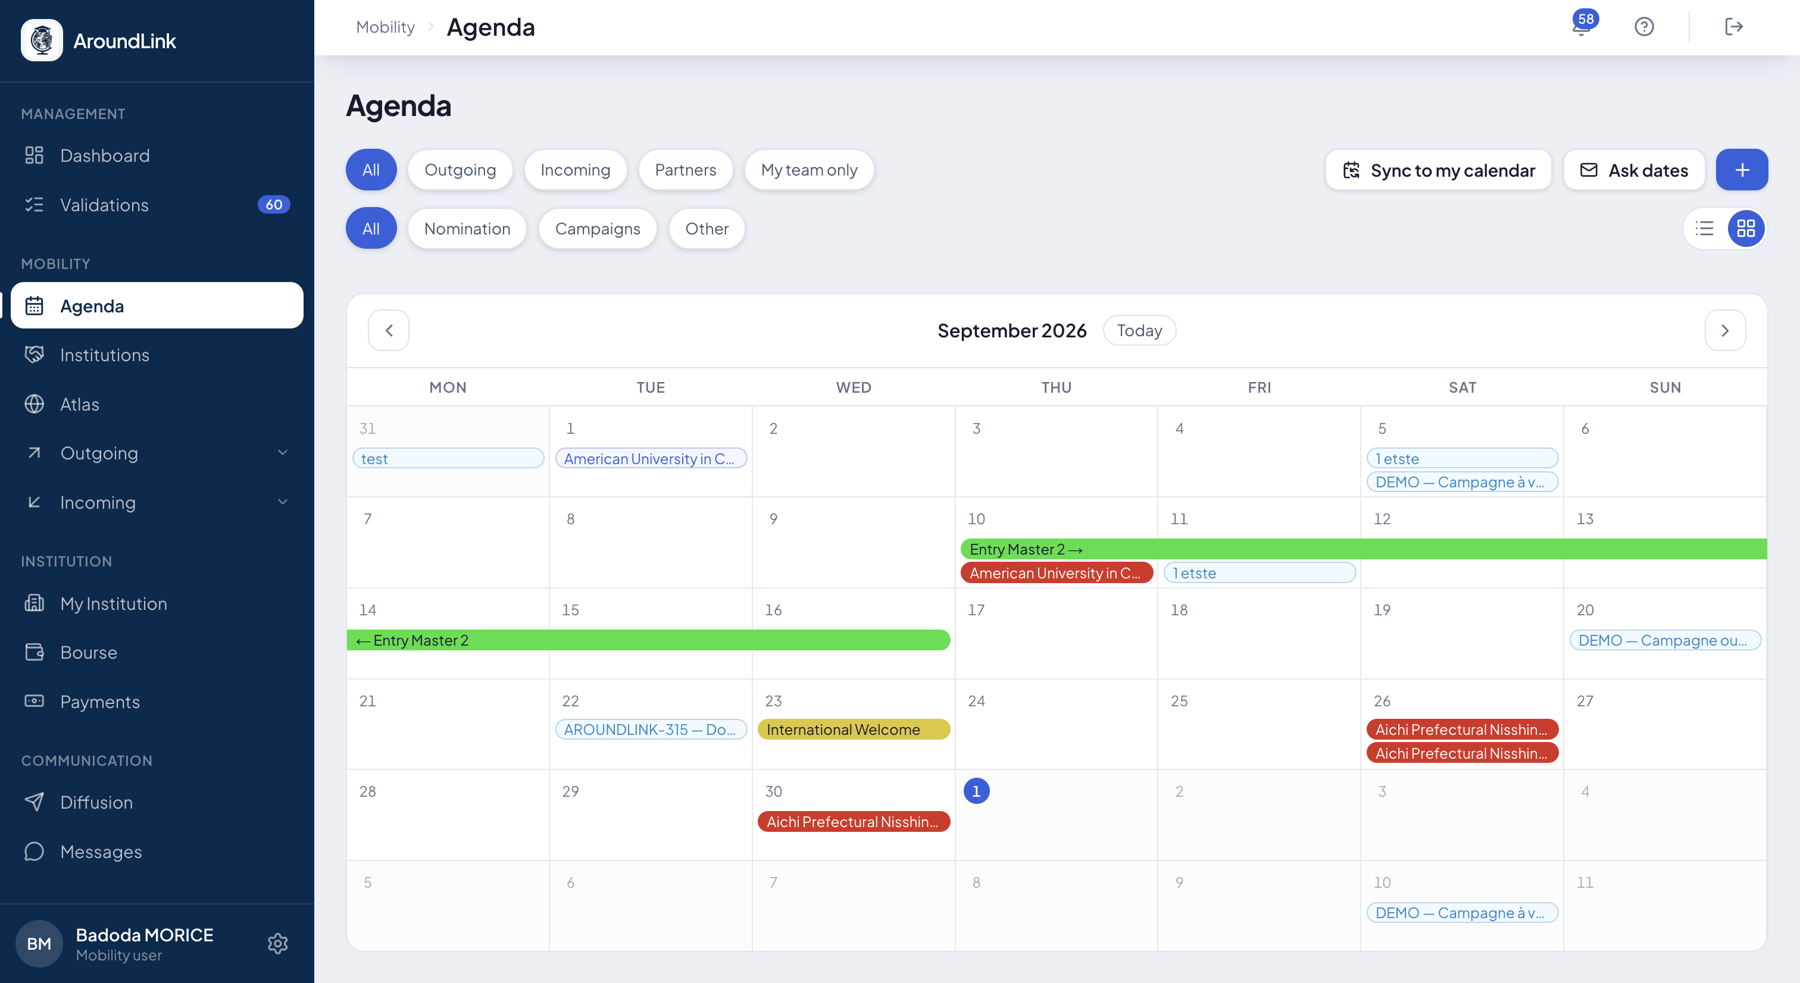
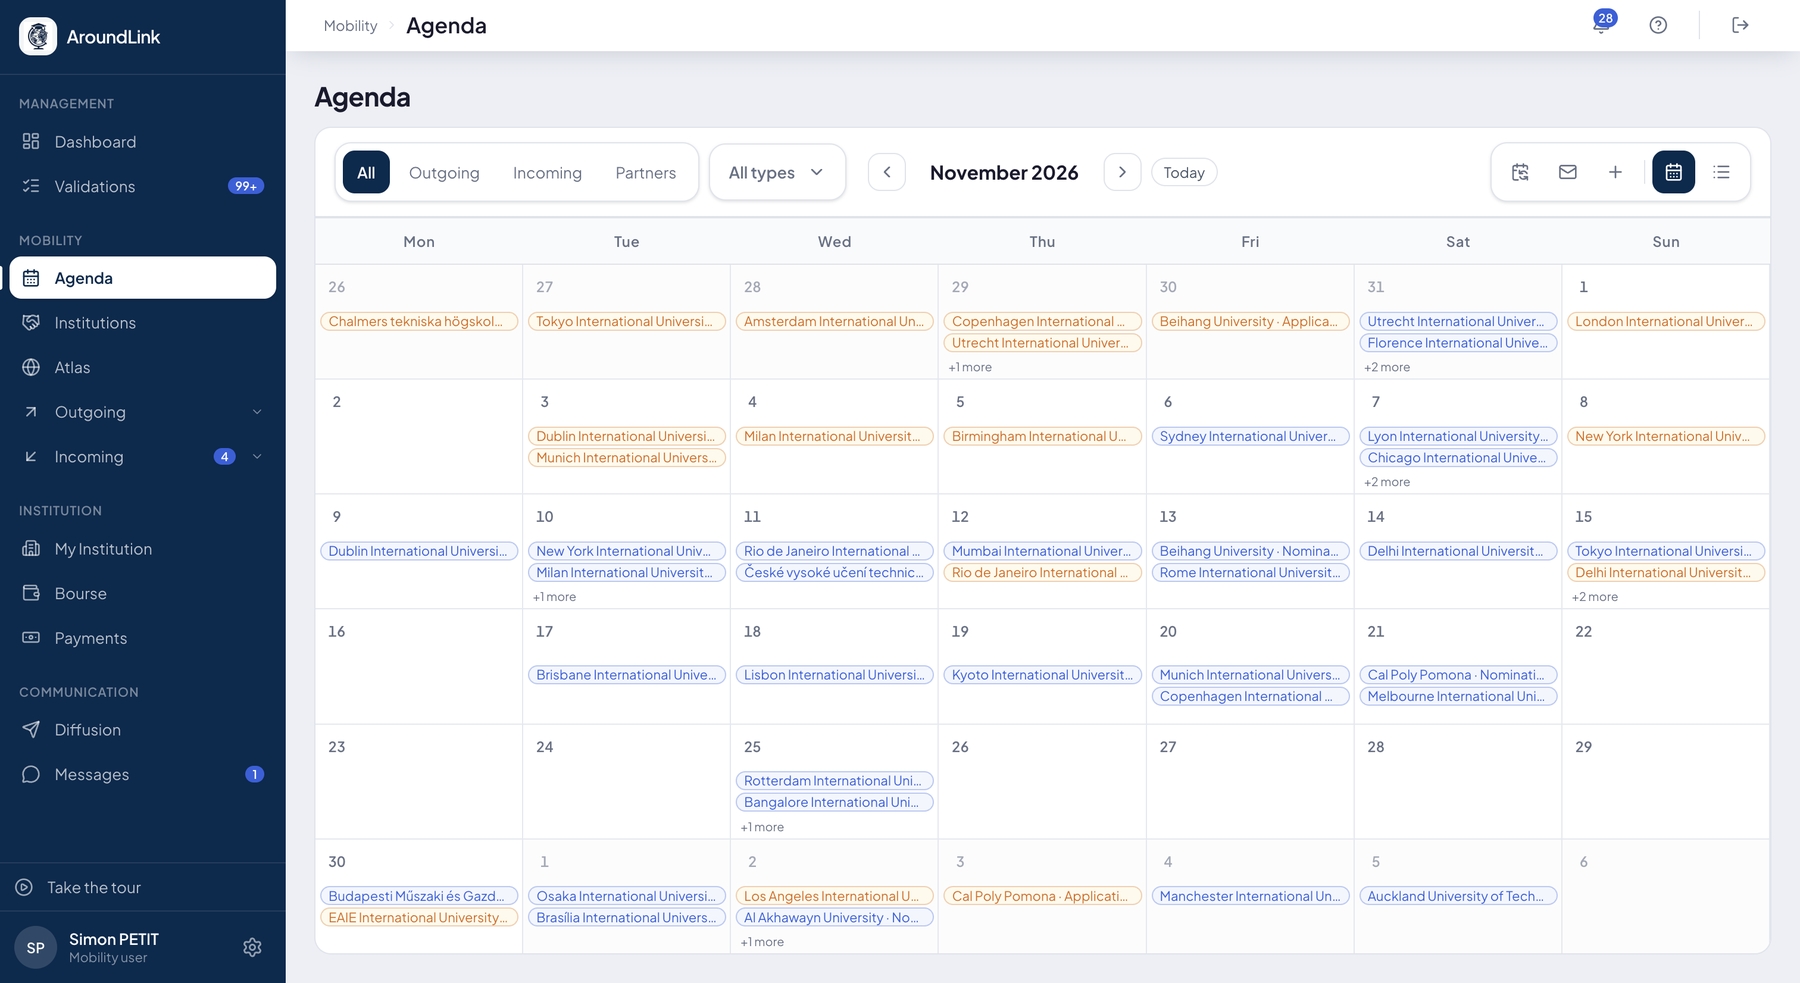
docs: sept captures de plus — et le vocabulaire des exigences, que l'écran a démenti
CE QUE LES CAPTURES ONT CORRIGÉ. J'avais décrit les exigences de langue avec
le vocabulaire du MODÈLE — « ET entre les blocs, OU dedans ». L'écran ne dit
pas ça : il empile des exigences numérotées et pose entre elles un mot
CLIQUABLE, « and » ou « or ». Vérifié dans InstitutionInformation.tsx, où le
séparateur rend « and » quand le bloc change et « or » sinon. Le texte dit
maintenant ce qui se voit, avec les deux en-têtes réels — « any one of these
is enough » et « this proof is required » — et la mention « Not a language »
de la moyenne générale.

CAPTURES POSÉES
- fiche-publique-composition + fiche-publique-publiee : la page neuve avait
  zéro image, elle en a deux — l'atelier et le résultat public.
- mon-etablissement-exigences-langue : le « or » cliquable, en situation.
- mon-etablissement-annonce-langues : l'aperçu avant envoi, et surtout les
  huit établissements NOMMÉS qui seront écartés faute de contact principal.
- agenda-demande-dates : « Dates filled » et le même avertissement. Posée
  dans les CINQ langues.
- recherche-globale : les familles, leurs compteurs, les sous-titres.
- agenda-mois : remplacée, l'écran du 01/10 n'existe plus.

MÉNAGE. Les quatre captures d'onboarding traînaient sans être affichées
depuis la revue du 14/10 : supprimées du dépôt et du registre. Une capture
qu'aucune page ne montre est une capture qu'on finira par ressortir à tort.

diff --git a/docs/etablissement/partenaires.fr.md b/docs/etablissement/partenaires.fr.md
@@ -140,20 +140,25 @@ niveau CECRL optionnel. Le référentiel des tests dit désormais **quelle langu
 chaque test mesure**, ce qui permet de rapprocher une exigence et un certificat
 sans interprétation.
 
-**Exiger deux langues : ET entre les blocs, OU dedans.** Une exigence n'est plus
-une liste plate d'alternatives. Chaque attente appartient à un **bloc**, et un bloc
-est **une preuve à apporter** :
+**Exiger deux langues.** Une exigence n'est plus une liste plate d'alternatives.
+L'écran empile des **exigences numérotées**, chacune portant sa langue, et **vous
+reliez deux exigences d'un clic** sur le mot qui les sépare :
 
-- à l'intérieur d'un bloc, les attentes sont des **alternatives** — « IELTS 6.5 **ou**
-  TOEFL 84 » ;
-- entre deux blocs, elles **s'additionnent** — « anglais **et** portugais ».
+| Le séparateur dit | Ce que l'étudiant doit faire |
+|---|---|
+| **and** | satisfaire les deux — « anglais **et** allemand » |
+| **or** | satisfaire l'une des deux |
 
-Un seul bloc en échec suffit à refuser le vœu. C'est ce qui permet enfin d'exprimer
-ce qu'une université demande vraiment quand elle exige une LV2 en plus de l'anglais :
-avant, l'étudiant restait considéré comme éligible dès qu'il satisfaisait l'anglais.
+À l'intérieur d'une exigence, les tests listés sont toujours des **alternatives** :
+l'en-tête l'annonce — *any one of these is enough* quand il y en a plusieurs, *this
+proof is required* quand il n'y en a qu'un.
 
-La **moyenne générale** tient son exigence à part : elle n'entre dans aucun bloc de
-langue.
+C'est ce qui permet enfin d'exprimer ce qu'une université demande vraiment lorsqu'elle
+exige une LV2 en plus de l'anglais : avant, l'étudiant restait considéré comme éligible
+dès qu'il satisfaisait l'anglais.
+
+La **moyenne générale** tient son exigence à part — l'écran la marque *Not a language* :
+c'est un prérequis, pas une langue.
 
 **D'où vient une exigence.** Une même fiche peut porter deux origines, et la
 différence compte — l'une s'applique à tout le monde, l'autre à vous seul. Une

diff --git a/docs/etablissement/partenaires.en.md b/docs/etablissement/partenaires.en.md
@@ -132,19 +132,25 @@ score, the four sub-scores and an optional CEFR level. The test reference now
 states **which language each test measures**, so a requirement and a certificate
 can be matched without interpretation.
 
-**Requiring two languages: AND between blocks, OR inside.** A requirement is no
-longer a flat list of alternatives. Each expectation belongs to a **block**, and a
-block is **one proof to provide**:
+**Requiring two languages.** A requirement is no longer a flat list of alternatives.
+The screen stacks **numbered requirements**, each carrying its language, and **you join
+two of them with one click** on the word that separates them:
 
-- inside a block, expectations are **alternatives** — "IELTS 6.5 **or** TOEFL 84";
-- between two blocks, they **add up** — "English **and** Portuguese".
+| The separator says | What the student must do |
+|---|---|
+| **and** | satisfy both — "English **and** German" |
+| **or** | satisfy either one |
 
-A single failed block is enough to refuse the wish. This is what finally expresses what
-a university really asks when it requires a second language on top of English: before,
-the student stayed eligible as soon as English was satisfied.
+Inside a requirement, the tests listed are always **alternatives**: the header says so —
+*any one of these is enough* when there are several, *this proof is required* when there
+is only one.
 
-The **grade point average** holds its own requirement apart: it belongs to no language
-block.
+This is what finally expresses what a university really asks when it requires a second
+language on top of English: before, the student stayed eligible as soon as English was
+satisfied.
+
+The **grade point average** holds its own requirement apart — the screen marks it *Not a
+language*: it is a prerequisite, not a language.
 
 **Where a requirement comes from.** The same fiche can carry two origins, and the
 difference matters — one applies to everyone, the other to you alone. A note at the

diff --git a/docs/etablissement/mon-etablissement.fr.md b/docs/etablissement/mon-etablissement.fr.md
@@ -76,6 +76,10 @@ d'attendre que chaque partenaire vous les demande, vous les annoncez d'un geste.
 
 **Pour qui.** <span class="al-audience">gestionnaire RI / coordinateur</span>
 
+![Vos exigences de langue, reliées par « and » ou « or »](../assets/screenshots/mon-etablissement-exigences-langue.png)
+
+*Deux exigences numérotées, chacune avec sa langue. Le mot qui les sépare se clique pour passer de « and » à « or ». Sous chacune, les tests acceptés — « any one of these is enough ».*
+
 **Comment ça marche.** L'envoi se fait **en deux temps**, comme la publication de vos
 dates : vous **regardez d'abord** ce qui partirait et à combien de partenaires, puis vous
 **envoyez**. Un message vers cinquante universités ne se rattrape pas ; le nombre de
@@ -88,6 +92,10 @@ L'écran rappelle aussi **quand vous avez annoncé pour la dernière fois**.
     par un lien qui ne réclame **aucun compte**. Il saisit ses prérequis, langue par
     langue, et ils remontent sur sa fiche. Le formulaire porte **votre logo**, pour qu'il
     sache qui demande.
+
+![L'aperçu avant d'annoncer ses exigences](../assets/screenshots/mon-etablissement-annonce-langues.png)
+
+*Avant d'envoyer : ce que vos partenaires liront, combien en recevront l'e-mail, et — nommés un par un — **ceux qui seront écartés faute de contact principal**.*
 
 **Cas d'usage.**
 > En juin, le bureau relève ses exigences d'anglais de B2 à C1. Il ouvre l'aperçu, voit

diff --git a/docs/etablissement/fiche-publique.fr.md b/docs/etablissement/fiche-publique.fr.md
@@ -24,6 +24,10 @@ panneau latéral propose ce qui n'est pas encore posé, rangé par catégorie et
 L'aperçu **est** la fiche : il n'existe pas de mode « édition » qui donnerait un rendu
 différent de la réalité.
 
+![L'écran de composition de la fiche publique](../assets/screenshots/fiche-publique-composition.png)
+
+*À gauche, vos rubriques avec un interrupteur et un compteur chacune ; au centre, la page telle que le public la verra ; en haut à gauche de la page, le sélecteur de campus.*
+
 !!! note "L'ordre des rubriques n'est pas réglable"
     C'est voulu : la page de tous les établissements se lit dans le même ordre, ce qui la
     rend comparable d'un partenaire à l'autre. Vous décidez de **ce qui se publie**, pas
@@ -46,6 +50,10 @@ il n'est pas un bloc à cocher. Le reste se choisit.
     Les contacts de l'équipe n'exposent que **la fonction et l'adresse e-mail** — jamais un
     numéro personnel. Les avis d'étudiants sont publiés **sans le nom de leur auteur**. Et
     aucun contenu d'un autre établissement n'apparaît sur votre page.
+
+![La fiche publique telle qu'on la voit de l'extérieur](../assets/screenshots/fiche-publique-publiee.png)
+
+*La même page, vue sans compte : vos couleurs et votre logo en bandeau, le sommaire à gauche, et le volet qui porte vos prochaines échéances, votre adresse, les avis de vos étudiants et vos liens.*
 
 ## Vos couleurs
 

diff --git a/docs/etablissement/mon-etablissement.en.md b/docs/etablissement/mon-etablissement.en.md
@@ -73,6 +73,10 @@ than waiting for each partner to ask, you announce them in one gesture.
 
 **Who it's for.** <span class="al-audience">RI manager / coordinator</span>
 
+![Your language requirements, joined by "and" or "or"](../assets/screenshots/mon-etablissement-exigences-langue.png)
+
+*Two numbered requirements, each with its language. The word between them is clickable, to switch from "and" to "or". Under each, the accepted tests — "any one of these is enough".*
+
 **How it works.** Sending happens **in two steps**, like publishing your dates: you
 **look first** at what would go out and to how many partners, then you **send**. A message
 to fifty universities cannot be taken back; the number of recipients is in front of you
@@ -85,6 +89,10 @@ The screen also reminds you **when you last announced**.
     that needs **no account**. They fill in their prerequisites, language by language, and
     these appear on their fiche. The form carries **your logo**, so they know who is
     asking.
+
+![The preview before announcing your requirements](../assets/screenshots/mon-etablissement-annonce-langues.png)
+
+*Before sending: what your partners will read, how many will receive the email, and — named one by one — **those left out for want of a main contact**.*
 
 **Use case.**
 > In June, the office raises its English requirement from B2 to C1. It opens the preview,

diff --git a/docs/etablissement/fiche-publique.en.md b/docs/etablissement/fiche-publique.en.md
@@ -24,6 +24,10 @@ is not yet placed, sorted by category and collapsible.
 The preview **is** the page: there is no "edit mode" that would render differently from
 reality.
 
+![The public page composer](../assets/screenshots/fiche-publique-composition.png)
+
+*On the left, your sections each with a switch and a counter; in the middle, the page as the public will see it; at the top left of the page, the campus selector.*
+
 !!! note "The order of sections cannot be changed"
     That is deliberate: every institution's page reads in the same order, which makes it
     comparable from one partner to the next. You decide **what gets published**, not the
@@ -46,6 +50,10 @@ is not a block to tick. The rest is your choice.
     Team contacts only expose **the role and the email address** — never a personal number.
     Student reviews are published **without their author's name**. And no content belonging
     to another institution appears on your page.
+
+![The public page as seen from outside](../assets/screenshots/fiche-publique-publiee.png)
+
+*The same page, seen without an account: your colours and logo in the banner, the table of contents on the left, and the panel carrying your next deadlines, your address, your students' reviews and your links.*
 
 ## Your colours
 

diff --git a/docs/etablissement/agenda.it.md b/docs/etablissement/agenda.it.md
@@ -76,6 +76,10 @@ Spuntate ciò che volete chiedere: inutile reclamare sei date quando ve ne basta
     accostano in lettura, tramite le loro coordinate europee — Vienna risponde una volta e
     tutte le scuole che hanno un autunno la vedono.
 
+![La richiesta di date ai vostri partner](../assets/screenshots/agenda-demande-dates.png)
+
+*Una mail per istituto, al suo contatto principale. La colonna «Dates filled» dice a che punto è ciascuno, e l'avviso arancione nomina chi non ha un contatto principale: quelli non riceveranno nulla.*
+
 **Caso d'uso.**
 > Ad aprile la coordinatrice chiede ai suoi 62 partner le scadenze di nomina per entrambe
 > le sessioni. Tre settimane dopo 48 hanno risposto; sollecita gli altri quattordici dalla

diff --git a/docs/etablissement/agenda.es.md b/docs/etablissement/agenda.es.md
@@ -76,6 +76,10 @@ Marca lo que quiere pedir: no hace falta reclamar seis fechas cuando le bastan d
     leerlos, por sus coordenadas europeas — Viena responde una vez y todas las escuelas que
     tienen un otoño la ven.
 
+![La solicitud de fechas a sus socios](../assets/screenshots/agenda-demande-dates.png)
+
+*Un correo por institución, a su contacto principal. La columna «Dates filled» indica en qué punto está cada uno, y el aviso naranja nombra a quienes no tienen contacto principal: esos no recibirán nada.*
+
 **Caso de uso.**
 > En abril, la coordinadora pide a sus 62 socios sus plazos de nominación para las dos
 > entradas. Tres semanas después han respondido 48; reclama a los otros catorce desde la

diff --git a/docs/etablissement/agenda.en.md b/docs/etablissement/agenda.en.md
@@ -77,6 +77,10 @@ You tick what you want to ask for: no need to claim six dates when two are enoug
     read time, through their European coordinates — Vienna answers once, and every school
     with an autumn sees it.
 
+![Asking your partners for their dates](../assets/screenshots/agenda-demande-dates.png)
+
+*One email per institution, to its main contact. The "Dates filled" column says where each one stands, and the orange warning names those with no main contact — they will receive nothing.*
+
 **Use case.**
 > In April, the coordinator asks her 62 partners for their nomination deadlines for both
 > intakes. Three weeks later 48 have answered; she chases the other fourteen from the same

diff --git a/docs/etablissement/agenda.fr.md b/docs/etablissement/agenda.fr.md
@@ -78,6 +78,10 @@ suffisent.
     rapprochent à la lecture, par leurs coordonnées européennes — Vienne répond une fois, et
     toutes les écoles qui ont un automne la voient.
 
+![La demande de dates à vos partenaires](../assets/screenshots/agenda-demande-dates.png)
+
+*Un e-mail par établissement, vers son contact principal. La colonne « Dates filled » dit où en est chacun, et l'avertissement orange nomme ceux qui n'ont pas de contact principal — ceux-là ne recevront rien.*
+
 **Cas d'usage.**
 > En avril, la coordinatrice demande à ses 62 partenaires leurs échéances de nomination
 > pour les deux rentrées. Trois semaines plus tard, 48 ont répondu ; elle relance les

diff --git a/docs/etablissement/agenda.de.md b/docs/etablissement/agenda.de.md
@@ -79,6 +79,10 @@ zwei genügen.
     werden beim Lesen zusammengeführt, über ihre europäischen Kenndaten — Wien antwortet
     einmal, und jede Schule mit einem Herbst sieht es.
 
+![Die Terminanfrage an Ihre Partner](../assets/screenshots/agenda-demande-dates.png)
+
+*Eine E-Mail pro Hochschule, an ihren Hauptkontakt. Die Spalte „Dates filled" sagt, wie weit jede ist, und der orange Hinweis nennt diejenigen ohne Hauptkontakt — sie erhalten nichts.*
+
 **Anwendungsfall.**
 > Im April fragt die Koordinatorin ihre 62 Partner nach den Nominierungsfristen für beide
 > Starttermine. Drei Wochen später haben 48 geantwortet; die übrigen vierzehn mahnt sie vom

diff --git a/docs/etablissement/dashboards.fr.md b/docs/etablissement/dashboards.fr.md
@@ -103,6 +103,10 @@ rien entre onze homonymes :
 
 Les résultats sont classés par pertinence, et un compteur dit combien il y en a au total.
 
+![La barre de recherche déroulée](../assets/screenshots/recherche-globale.png)
+
+*Trois lettres suffisent. Les résultats se rangent par famille avec leur compteur — étudiants, contacts — et chacun porte le fait qui le situe.*
+
 !!! tip "Un effet de bord utile"
     Parce que les deux écritures se rencontrent désormais, un seul mot tapé sans accents fait
     apparaître les doublons qu'on ne voyait pas — « Bahçeşehir Üniversitesi » et « Bahcesehir
